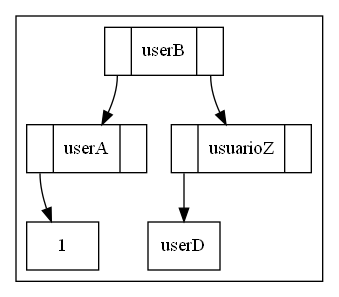
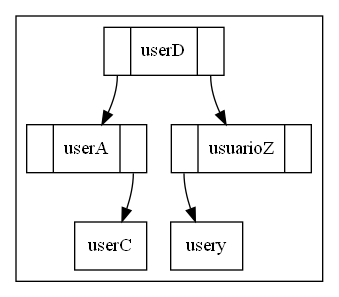
se crearon las funciones de agregar,eliminar y modificar usuario

diff --git a/src/main/java/com/mycompany/p1/ed/Principal.java b/src/main/java/com/mycompany/p1/ed/Principal.java
@@ -6,17 +6,14 @@
 package com.mycompany.p1.ed;
 
 import com.mycompany.p1.ed.Informacion.Almacenamiento;
-import com.mycompany.p1.ed.Matrices.MatrizDispersa;
 import com.mycompany.p1.ed.Nodos.NodeAVL;
-import com.mycompany.p1.ed.arboles.AVLTree;
-import com.mycompany.p1.ed.listas.ListCircular;
 import com.mycompany.p1.ed.listas.ListSimple;
 import com.mycompany.p1.ed.objetos.Capa;
 import com.mycompany.p1.ed.objetos.Imagen;
+import com.mycompany.p1.ed.objetos.Usuario;
 import java.io.BufferedReader;
 import java.io.File;
 import java.io.FileInputStream;
-import java.io.IOException;
 import java.io.InputStreamReader;
 import java.util.Scanner;
 import org.apache.commons.io.FilenameUtils;
@@ -70,7 +67,7 @@ public class Principal {
             System.out.println("1.Graficar Estado de memoria");
             System.out.println("2.Generacion de imagenes");
             System.out.println("3.Crear usuario");
-            System.out.println("4.Elimianr Usuario");
+            System.out.println("4.Eliminar Usuario");
             System.out.println("5.Modificar Usuario");
             System.out.println("6.salir");
             String opcion = scanner.nextLine();
@@ -81,6 +78,59 @@ public class Principal {
                 }
                 case "2":{
                     
+                    break;
+                }
+                case "3":{
+                    System.out.println("Ingrese el nombre del usuario: ");                    
+                    String userName = scanner.nextLine();
+                    NodeAVL node = almacenamiento.getUsuarios().find(opcion);
+                    if (node != null) {
+                        System.out.println("El usuario " + userName + " ya existe");
+                        break;
+                    }
+                    Usuario nuevo = new Usuario();
+                    nuevo.setId(userName);
+                    ListSimple lista = new ListSimple();
+                    while(true){
+                        System.out.println("Ingrese el codigo de una imagen para agregarlo con el usuario\n O escirba null para salir");
+                        String op = scanner.nextLine();
+                        if (!op.equalsIgnoreCase("null")) {
+                            Imagen img = almacenamiento.getImagenes().buscar(op);
+                            if (img != null) {
+                                lista.add(op);
+                            }else{
+                                System.out.println("No existe la imagen escrita");
+                            }
+                        }else{
+                            break;
+                        }                        
+                    }
+                    nuevo.setImagenes(lista);
+                    almacenamiento.getUsuarios().add(userName, nuevo);
+                    break;
+                }
+                case "4":{
+                    System.out.println("Escriba el codigo a eliminar: ");
+                    String idUser = scanner.nextLine();
+                    NodeAVL nodeUser = almacenamiento.getUsuarios().find(idUser);
+                    if (nodeUser != null) {
+                        almacenamiento.getUsuarios().remove(idUser);
+                        System.out.println("Codigo Eliminado");
+                    }else{
+                        System.out.println("No existe el usuario " + idUser);
+                    }
+                    break;
+                }
+                case "5":{
+                    System.out.println("Escriba el codigo de usuario a modificar: ");
+                    String userName = scanner.nextLine();
+                    NodeAVL node = almacenamiento.getUsuarios().find(userName);
+                    if (node == null) {
+                        System.out.println("El usuario " + userName + " no existe");
+                        break;
+                    }                    
+                    modUser(node);    
+                    break;
                 }
                 case "6":{
                     flag = false;
@@ -142,6 +192,75 @@ public class Principal {
                     break;
             }
         }
+    }
+    private static void modUser(NodeAVL nodeUser){
+        boolean cambios = false;
+        Usuario user = (Usuario) nodeUser.getObject();
+        System.out.println("Elija la opcion que desea hacer con el usuario: ");
+        OUTER:
+        while(true){
+            System.out.println("1.Modificar el userName");
+            System.out.println("2.Modificar Lista de imagenes");
+            System.out.println("3.Regresar");
+            String opcion = scanner.nextLine();
+            switch(opcion){
+                case"1":{
+                    System.out.println("Escriba el nuevo nombre de usuario: ");
+                    String userName = scanner.nextLine();
+                    if (!verificarUser(userName)) {
+                        user.setId(userName);
+                        cambios = true;
+                    }else{
+                        System.out.println("el nombre de usuario no esta disponible");
+                        break;
+                    }
+                    break;
+                }
+                case"2":{
+                    System.out.println("\n1.Insertar imagen");
+                    System.out.println("2.Eliminar imagen");
+                    String op = scanner.nextLine();
+                    System.out.println("Esrciba el codigo de la imagen");
+                    String im = scanner.nextLine();
+                        switch(op){
+                            case "1":{                                
+                                Imagen img = almacenamiento.getImagenes().buscar(im);
+                                if (img != null) {
+                                    user.getImagenes().add(im);
+                                    System.out.println("Se agrego la imagen");
+                                }else{
+                                    System.out.println("No existe la imagen escrita");
+                                }
+                                break;
+                            }case "2":{
+                                if (user.getImagenes().eliminar(im)) {
+                                    System.out.println("se elimino la imagen");
+                                }else{
+                                    System.out.println("No se encontro la imagen");
+                                }
+                                break;
+                            } default:{
+                                break;
+                            }
+                        }
+                        break;
+                }
+                case "3":{
+                    if (cambios) {
+                        almacenamiento.getUsuarios().Modificar(nodeUser.getId(),user.getId(),user);
+                    }
+                    break OUTER;
+                }
+            }
+        }      
+        
+    }
+    private static boolean verificarUser(String id){
+        NodeAVL node = almacenamiento.getUsuarios().find(id);
+        if (node != null) {
+            return true;
+        }
+        return false;
     }
     
     private static String converterString(File file){

diff --git a/src/main/java/com/mycompany/p1/ed/arboles/AVL.java b/src/main/java/com/mycompany/p1/ed/arboles/AVL.java
@@ -141,7 +141,17 @@ public class AVL {
             current = current.getId().compareTo(id) < 0 ? current.getDerc() : current.getIzq();
         }
         return current;
-    }    
+    }
+    public void Modificar(String id,String idNew, Object obj){
+        NodeAVL node = find(id);
+        if (node != null) {
+            raiz = delete(raiz,id);
+            raiz = insert(raiz,idNew,obj);
+            System.out.println(id +" modificado con exito");
+        }else{
+            System.out.println("No esta el usuario a modificar");
+        }
+    }
     //graficar
     public String getEstado(String nombre){
         String estado = "subgraph cluster_arbol_"+nombre+"{\nrankdir=TB;\n"
